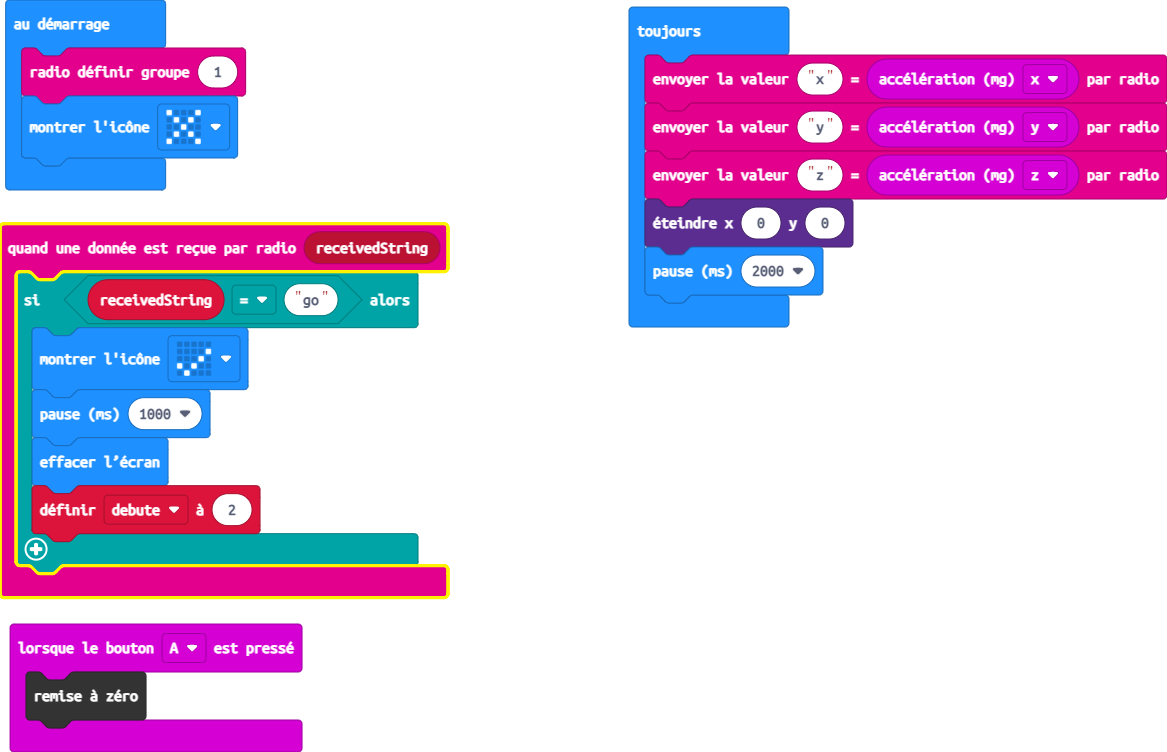
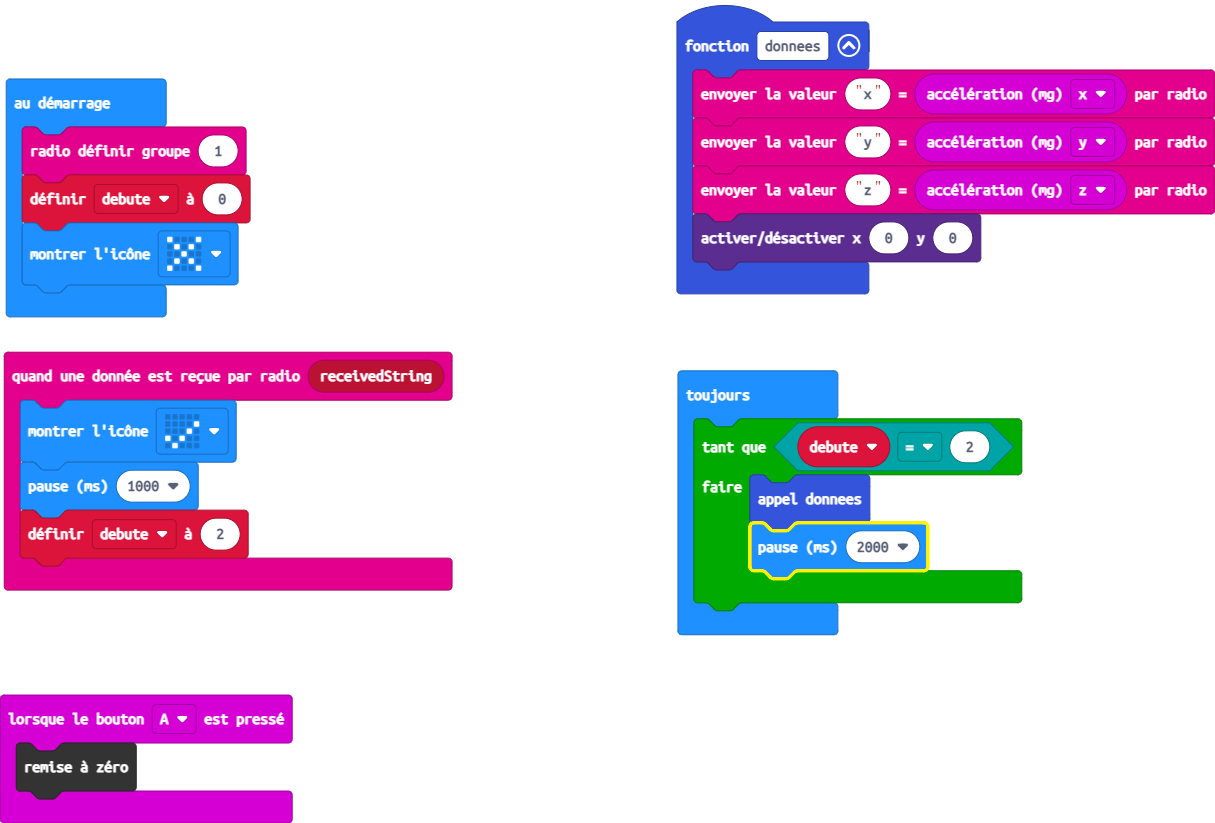
Mise à jour main.blocks, main.ts

diff --git a/main.ts b/main.ts
@@ -2,20 +2,23 @@ input.onButtonPressed(Button.A, function () {
     control.reset()
 })
 radio.onReceivedString(function (receivedString) {
-    if (receivedString == "go") {
-        basic.showIcon(IconNames.Yes)
-        basic.pause(1000)
-        basic.clearScreen()
-        debute = 2
-    }
+    basic.showIcon(IconNames.Yes)
+    basic.pause(1000)
+    debute = 2
 })
-let debute = 0
-radio.setGroup(1)
-basic.showIcon(IconNames.No)
-basic.forever(function () {
+function donnees () {
     radio.sendValue("x", input.acceleration(Dimension.X))
     radio.sendValue("y", input.acceleration(Dimension.Y))
     radio.sendValue("z", input.acceleration(Dimension.Z))
-    led.unplot(0, 0)
-    basic.pause(2000)
+    led.toggle(0, 0)
+}
+let debute = 0
+radio.setGroup(1)
+debute = 0
+basic.showIcon(IconNames.No)
+basic.forever(function () {
+    while (debute == 2) {
+        donnees()
+        basic.pause(2000)
+    }
 })
